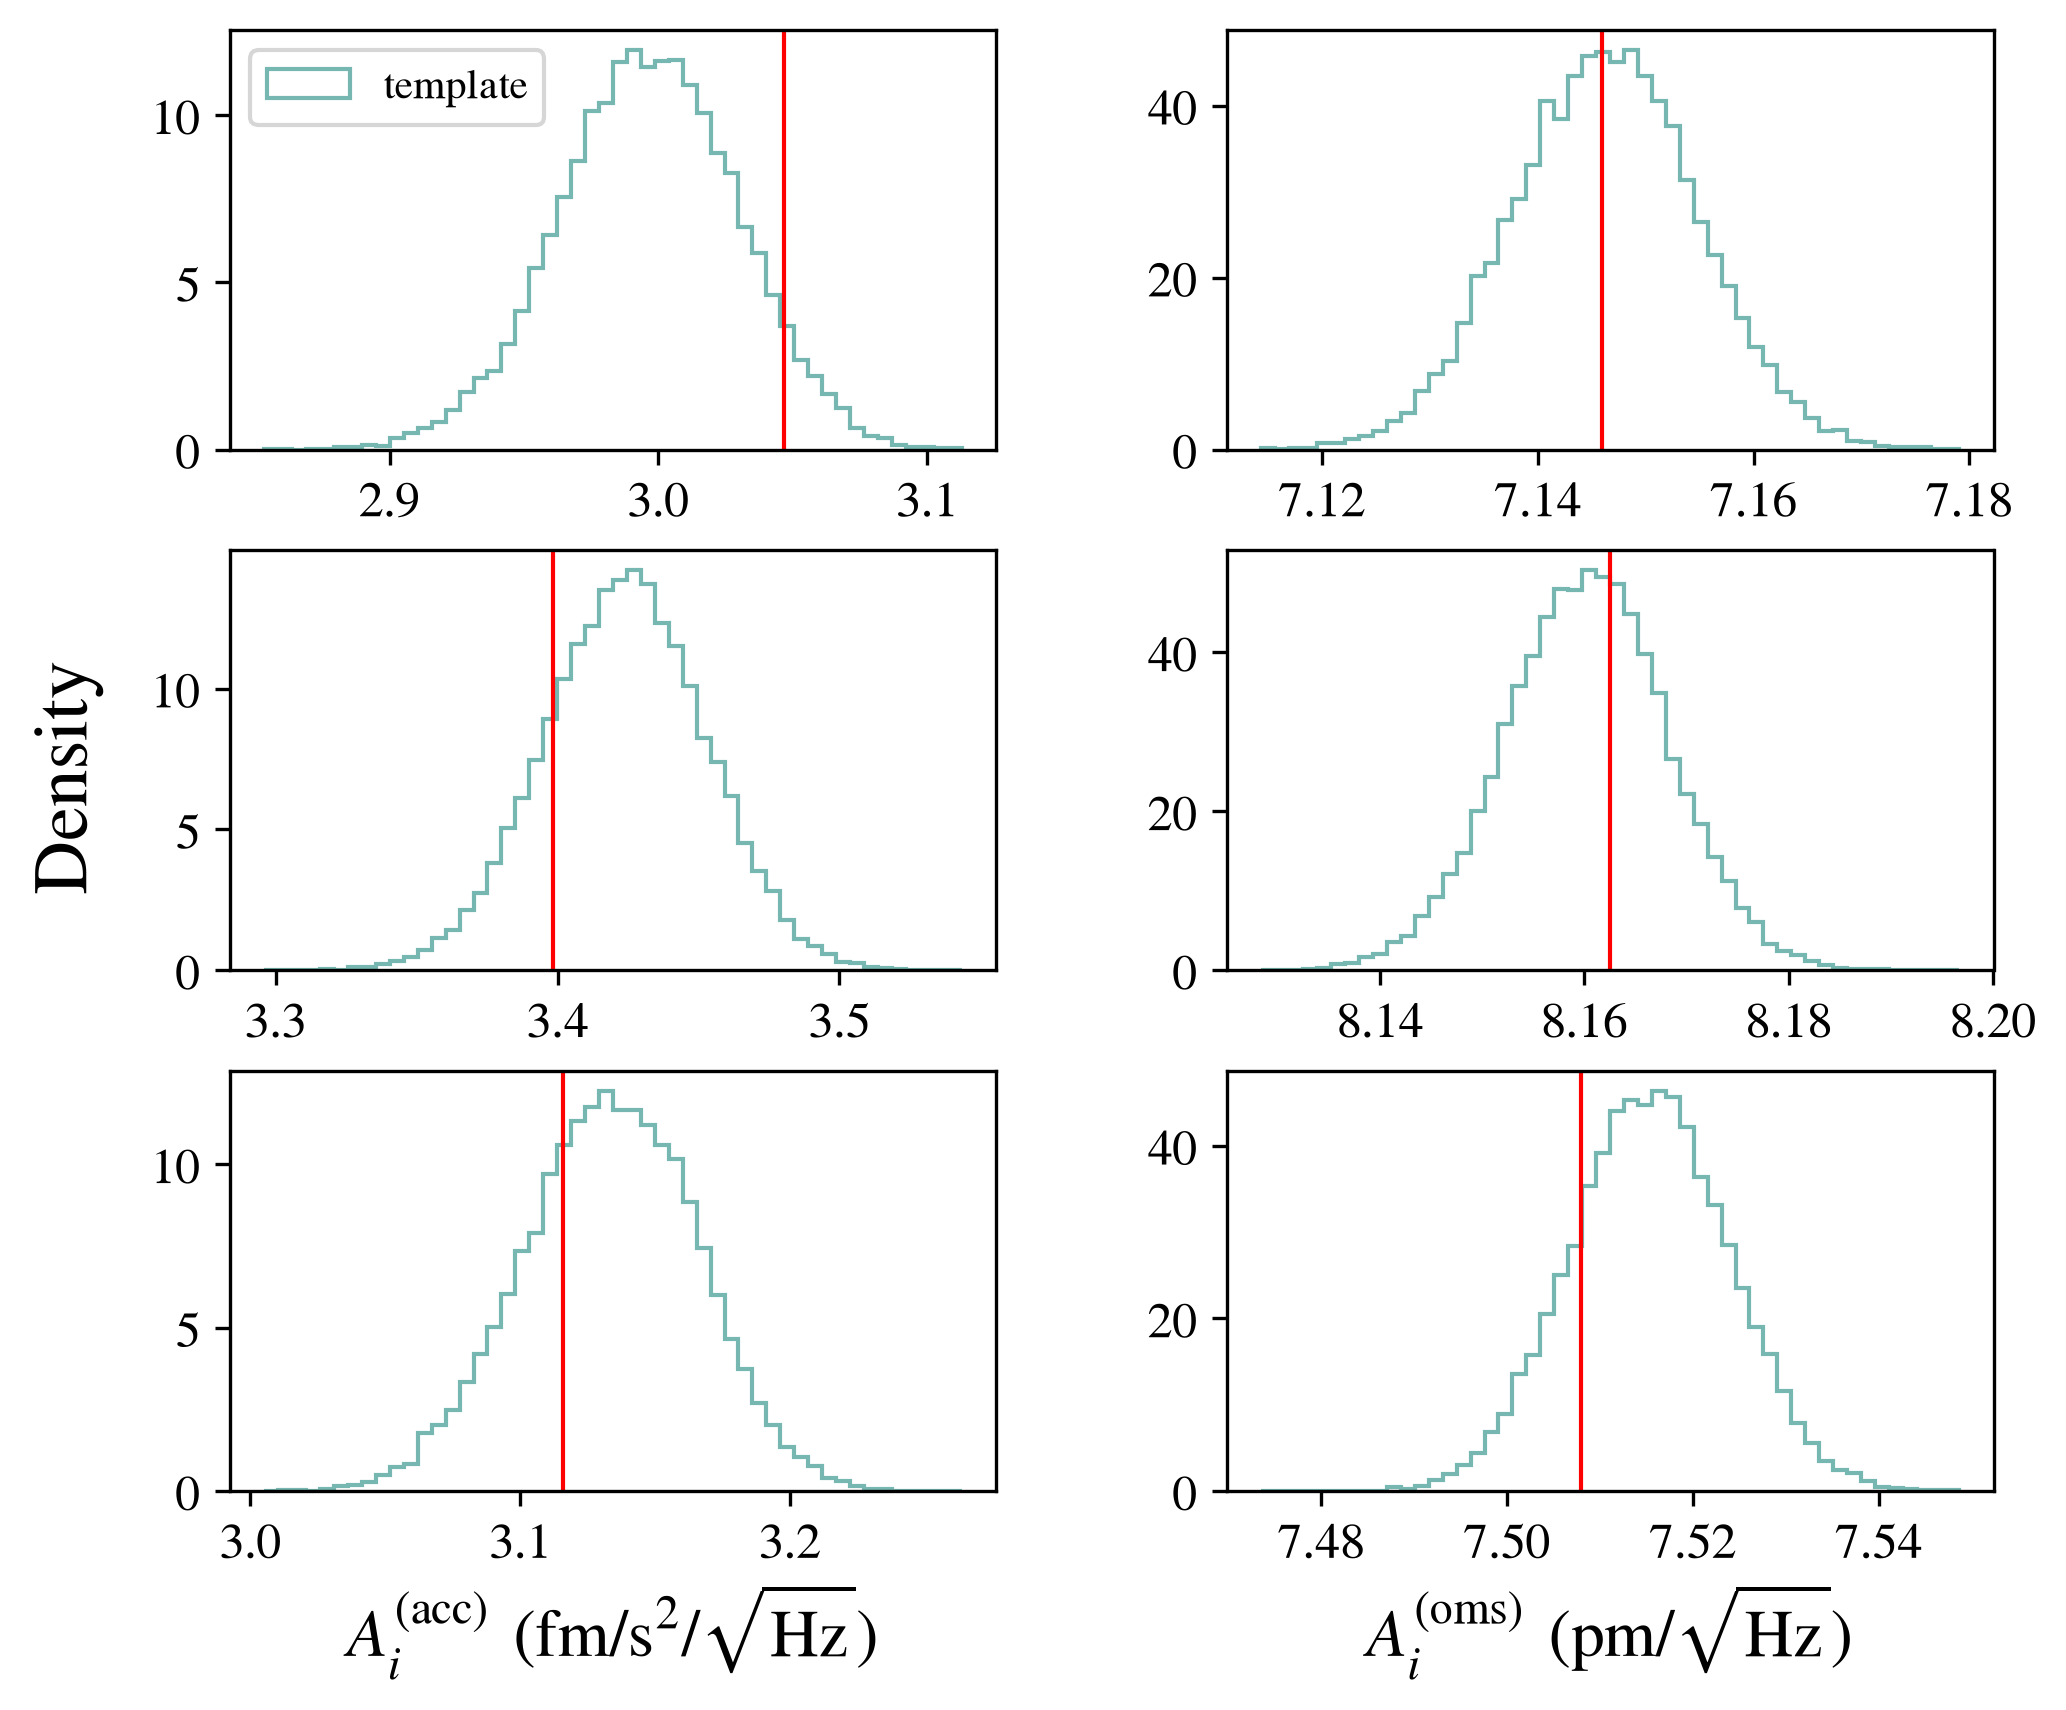
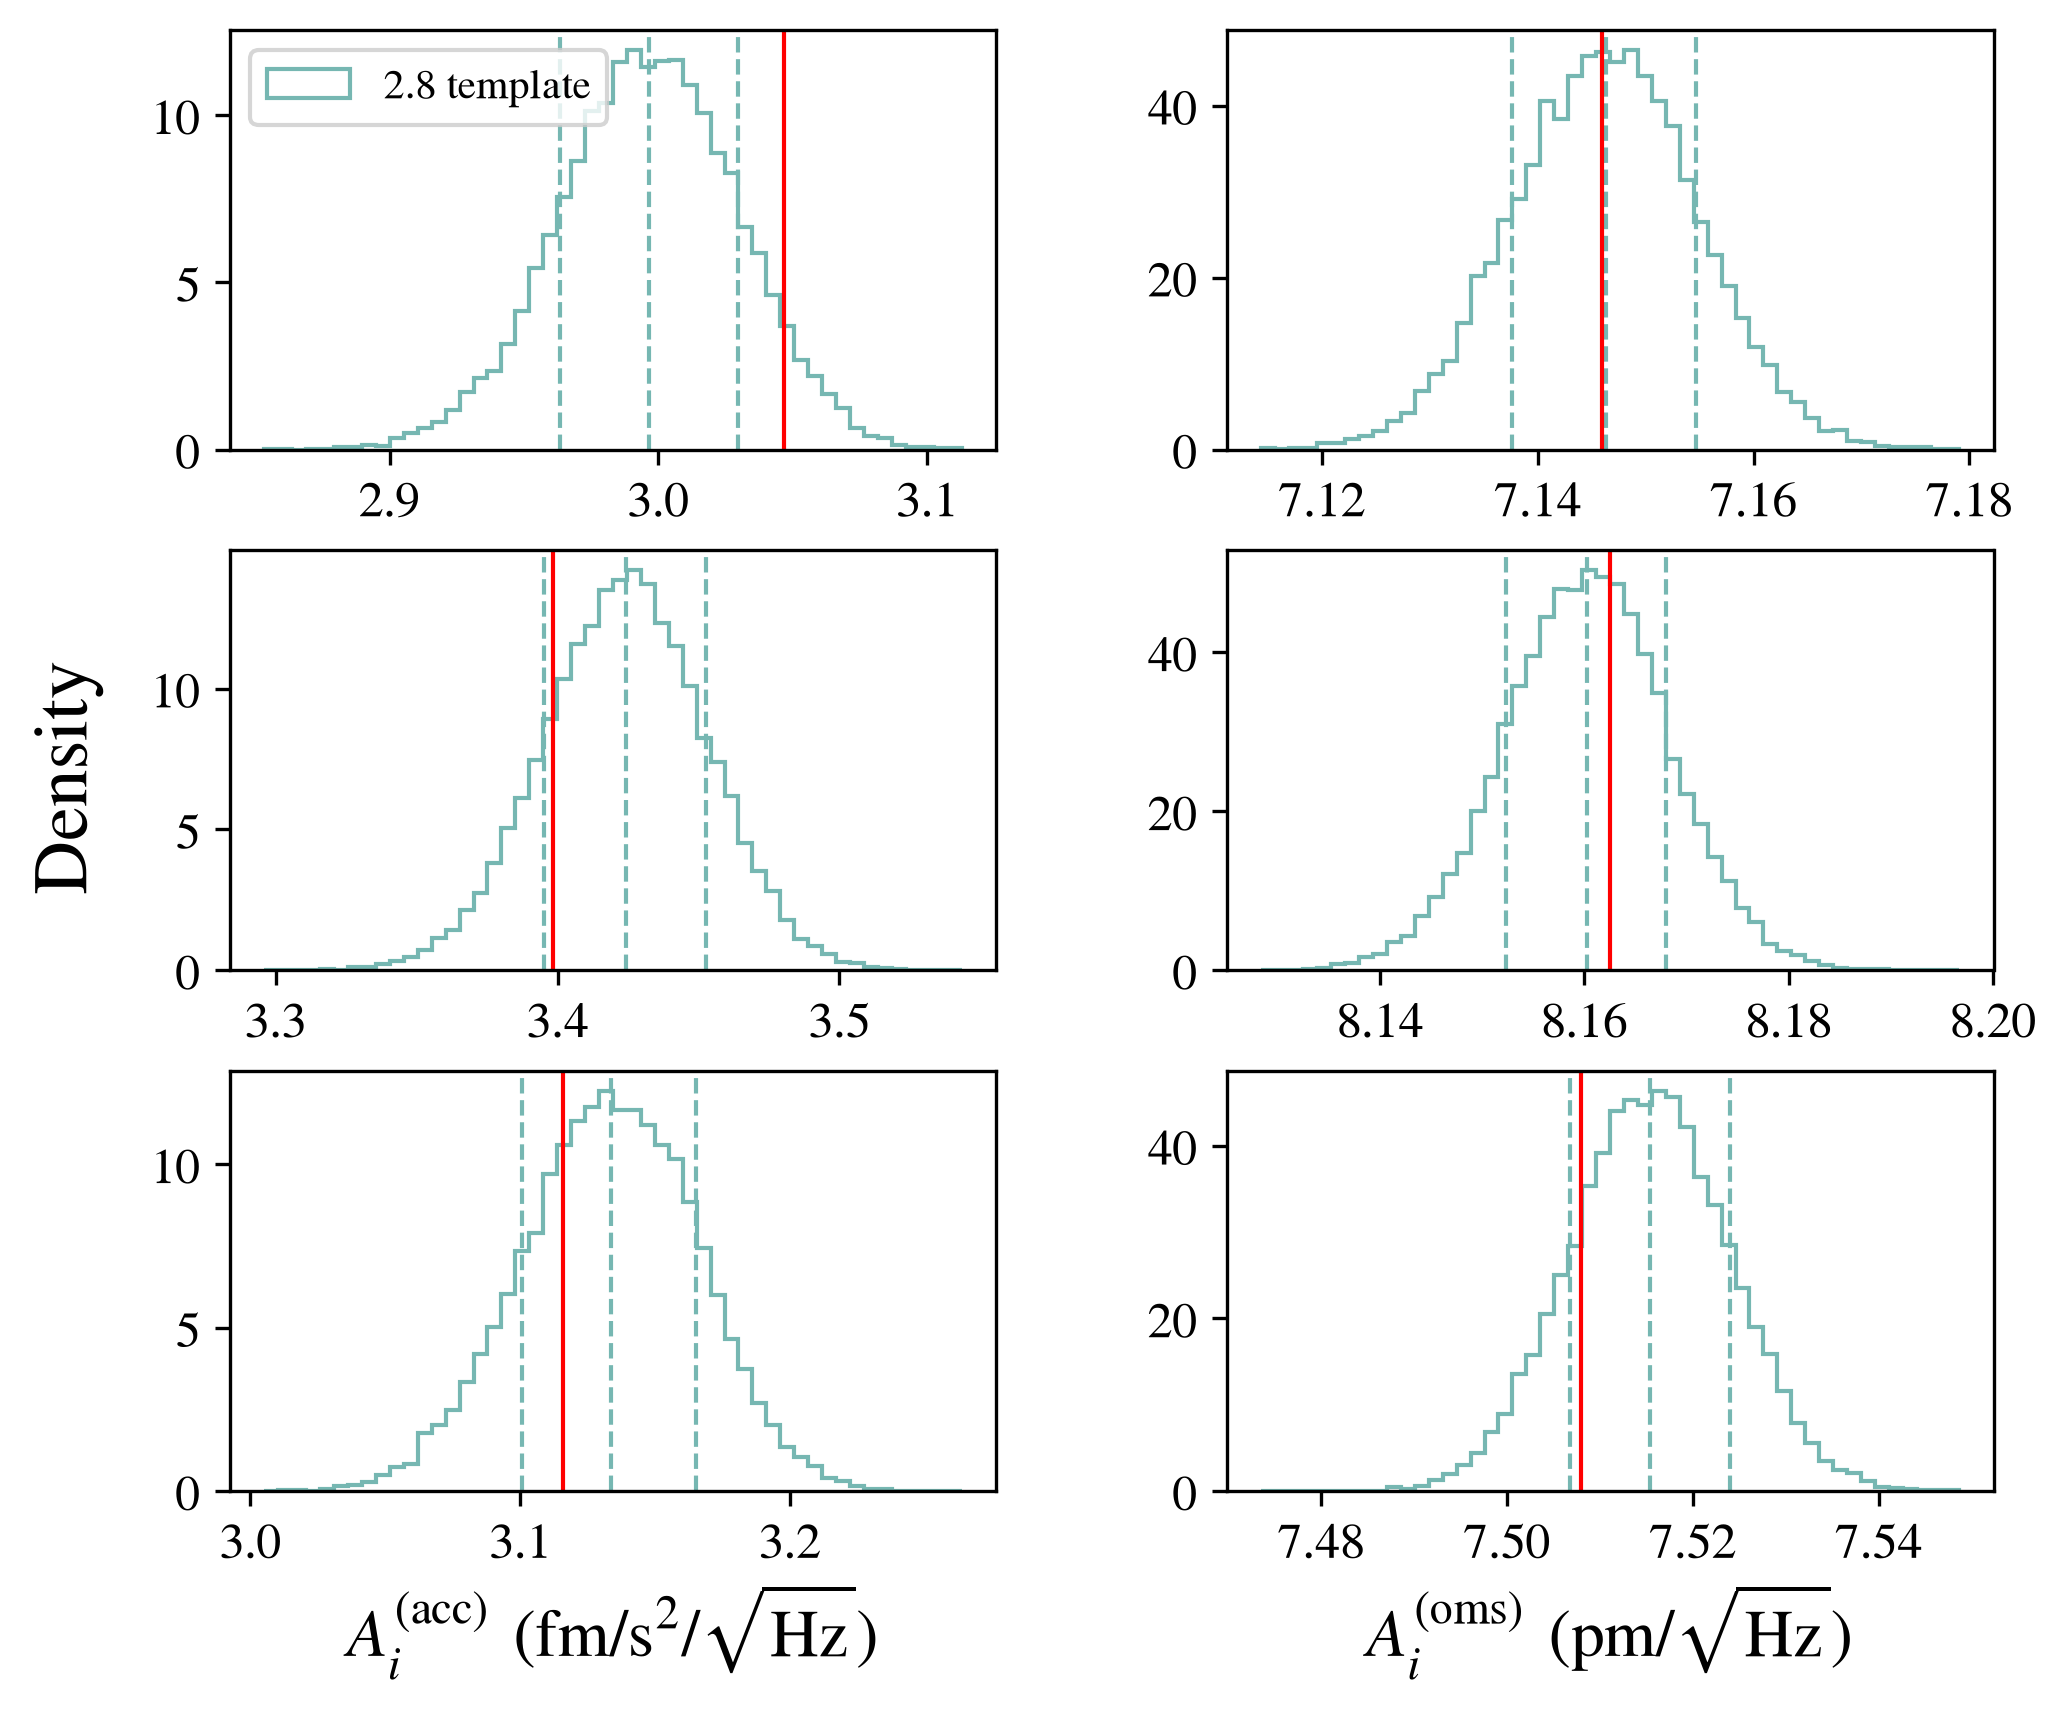
Restore noise quantile markers and clarify incomplete paper experiment comparisons

Changed region(s): [[0.1859, 0.031, 0.3098, 0.093]]

diff --git a/scripts/reproduction/analyze-taiji-sgwb-template-formal.py b/scripts/reproduction/analyze-taiji-sgwb-template-formal.py
@@ -78,7 +78,9 @@ def main():
     np.savez_compressed(OUT/'posterior-cold-chain.npz',cold_chain=cold,truth=injected,labels=np.array(labels),log_like_cold=b.get_log_like()[:,0,:],betas=b.get_betas())
     with plt.rc_context({'font.family':'serif','font.serif':['STIXGeneral','DejaVu Serif'],'mathtext.fontset':'stix','font.size':14,'axes.titlesize':11,'axes.labelsize':16,'legend.fontsize':12,'axes.grid':False,'axes.linewidth':.8,'lines.linewidth':1.0}):
         import corner
+        from matplotlib.lines import Line2D
         fig=corner.corner(flat[:,12:14],bins=50,smooth=.9,labels=[r'$A_{\mathrm{ap}}$',r'$\gamma_{\mathrm{ap}}$'],truths=injected[12:14],truth_color='red',color='#ff9da7',quantiles=[.16,.84],levels=[.68,.95],plot_datapoints=False,fill_contours=True,show_titles=False,max_n_ticks=4,hist_kwargs={'histtype':'step','linewidth':1})
+        fig.legend(handles=[Line2D([],[],color='#ff9da7',label='2.8 (template)'),Line2D([],[],color='red',label='injected')],loc='upper right',bbox_to_anchor=(.98,.97),frameon=False,fontsize=11)
         for ax in fig.axes:
             ax.tick_params(axis='both',labelsize=13)
             for tick in ax.get_xticklabels()+ax.get_yticklabels():tick.set_rotation(45)
@@ -94,7 +96,8 @@ def main():
                 values=(flat[:,offset+pair[0]]+flat[:,offset+pair[1]])/(2*unit)
                 true=(injected[offset+pair[0]]+injected[offset+pair[1]])/(2*unit)
                 q=np.quantile(values,[.025,.16,.5,.84,.975]);ax=axes[sc,col]
-                ax.hist(values,bins=50,density=True,histtype='step',color='#76b7b2',linewidth=1,label='template')
+                ax.hist(values,bins=50,density=True,histtype='step',color='#76b7b2',linewidth=1,label='2.8 template')
+                for value in q[1:4]:ax.axvline(value,color='#76b7b2',ls='--',lw=1)
                 ax.axvline(true,color='red',lw=1)
                 kind='ACC' if col==0 else 'OMS'
                 if sc==2:ax.set_xlabel(r'$A_i^{(\mathrm{acc})}\ (\mathrm{fm}/\mathrm{s}^2/\sqrt{\mathrm{Hz}})$' if col==0 else r'$A_i^{(\mathrm{oms})}\ (\mathrm{pm}/\sqrt{\mathrm{Hz}})$')
@@ -103,7 +106,7 @@ def main():
                 noise_rows.append({'parameter':f'{kind}_SC{sc+1}_average','links':[links[pair[0]],links[pair[1]]],'truth':float(true),'unit':'fm/s^2/sqrt(Hz)' if col==0 else 'pm/sqrt(Hz)','quantiles_025_16_50_84_975':q.tolist()})
         fig.text(.045,.55,'Density',rotation=90,va='center',fontsize=18)
         fig.savefig(OUT/'posterior-noise-spacecraft.png',dpi=300,bbox_inches='tight');plt.close(fig)
-        write_json(OUT/'posterior-noise-spacecraft.json',{'definition':'Arithmetic MOSA amplitude averages computed draw by draw, as in paper Section IV.','parameters':noise_rows})
+        write_json(OUT/'posterior-noise-spacecraft.json',{'definition':'Arithmetic MOSA amplitude averages computed draw by draw, as in paper Section IV.','dataset':'2.8 flexing-arm, not 2.8_EQ.','markers':'Cyan dashed lines: actual sampled 16th, 50th, 84th percentiles; red solid: injection. Figure 4 marker convention applied to the available 2.8 template samples, not a claim of reproducing the EQ experiment.','parameters':noise_rows})
         fig,axes=plt.subplots(7,2,figsize=(11,15),layout='constrained')
         for j,ax in enumerate(axes.flat):
             ax.plot(np.arange(1,351),cold[:,::4,j],alpha=.25,lw=.5);ax.axhline(injected[j],color='red',ls='--');ax.set(xlabel='Saved production step',ylabel=labels[j])

diff --git a/results/taiji-sgwb/template-formal/paper-figure-correspondence.md b/results/taiji-sgwb/template-formal/paper-figure-correspondence.md
@@ -1,0 +1,15 @@
+# Paper figure correspondence and detail review
+
+The reference screenshots are Figures 3, 4 and 6 of arXiv:2601.00169v2. Current formal inference is only the original 2.8 flexing-arm template experiment. A completed 350-ensemble chain for that experiment is not the complete collection of experiments in these paper figures.
+
+| Reference | What it contains | Present locally | Difference and action |
+| --- | --- | --- | --- |
+| Figure 3 | Blue 2.8_EQ and pink 2.8 template posteriors, red injection, 16/84% marginal markers, 68/95% joint contours | Pink 2.8 posterior and all of its stated markers/contours | Blue EQ posterior is a different dataset experiment, not a drawing option. Added an explicit 2.8 template legend. No EQ curve fabricated. |
+| Figure 4 | ACC/OMS spacecraft averages inferred from **2.8_EQ**, with cyan 16/50/84% dashed markers and red truth | Spacecraft averages from **2.8**, originally styled after Figure 8's template component | Missing quantile markers were a genuine available-data plotting omission relative to this screenshot. Added actual draw-derived 16/50/84% dashed lines. Data remain 2.8, not relabeled EQ. |
+| Figure 6 | Orange 2.8 template 95% spectrum band, pink 2.8 RJMCMC interpolation 95% band, red injection and relative-error panel | Orange template, red injection, 95% band and relative-error panel | Pink interpolation is a different posterior/model from rj_nofg_28t.py. It cannot be generated from the fixed power-law template chain. No RJ chain has completed. |
+
+Within each actually available result, the original sample quantiles, two joint contour levels, physical units, red truth lines, frequency scaling and fractional error are retained. Minor axis-range, binning, smoothing and typography differences can still arise because final publication plotting scripts are not all provided and samples differ. Styling agreement is not a claim of identical posterior numbers or verified convergence.
+
+To reproduce the reference panels in full requires three distinct analyses: (1) 2.8 template, now completed with convergence unconfirmed; (2) 2.8_EQ template, not yet executed; and (3) 2.8 RJMCMC interpolation, not yet executed. All three need their own data/model configuration, sampler diagnostics and traceable outputs. No extra long sampling was started during this review.
+
+Before-refinement plots are preserved under attempts/before-paper-detail-review/. Native HDF, final state and exported cold samples are unchanged, verified against paper-detail-review-input-hashes.json. The noise quantiles are saved numerically in posterior-noise-spacecraft.json. The archived original automatic-analysis error remains a separate earlier incident.

diff --git a/results/taiji-sgwb/template-formal/README.md b/results/taiji-sgwb/template-formal/README.md
@@ -29,7 +29,7 @@ Cold production acceptance is 0.2942. Only 2 of 14 parameters pass the predeclar
 ## Figures
 
 - [SGWB posterior](posterior-sgwb.png): paper Figure 3's 2.8 component, pink 68%/95% contours and red injection.
-- [Noise posteriors](posterior-noise-spacecraft.png): paper Figure 8's template component, draw-by-draw spacecraft averages in physical fm/pm units.
+- [Noise posteriors](posterior-noise-spacecraft.png): paper Figure 8's available 2.8 template component, draw-by-draw spacecraft averages in physical fm/pm units. Cyan 16/50/84% dashed markers are added using Figure 4's marker convention; this is not the EQ experiment.
 - [SGWB spectrum](posterior-spectrum.png): paper Figure 6's template component, 95% pointwise band and fractional error panel. Display is 1–40 mHz; full numerical range is retained in NPZ.
 - [SGWB production traces](production-traces.png).
 - [All 14 production traces](production-traces-all.png).
@@ -42,3 +42,7 @@ All six figures were generated from this run and visually inspected. No upstream
 The automatic analysis initially stopped at an external analyzer path typo, ROOT[...] instead of ROOT / ..., before plotting. Original failure log, pre-fix analyzer and status are retained under attempts/automatic-postprocessing-path-error/. Corrected postprocessing was rerun against the unchanged completed chain. SHA-256 comparisons confirm both live/exported HDF and final NPZ/JSON were not altered. This was not a sampling failure or MCMC rerun. The completed-state audit now requires analysis, status consistency, all six figures and published final-state hashes; an integrity-only audit cannot stand in for postprocessing completion.
 
 [Detailed method and history](../../../docs/reproduction/taiji-sgwb/template-formal.md).
+
+## Reference-figure detail review
+
+See [figure-by-figure correspondence](paper-figure-correspondence.md). Paper Figure 3 also contains 2.8_EQ posteriors; Figure 4 is specifically 2.8_EQ; Figure 6 also contains a separate RJMCMC interpolation result. Those experiments have not been executed. Available-data quantile markers were added without changing sample values. Full-paper figure reproduction remains incomplete.

diff --git a/docs/reproduction/taiji-sgwb/template-formal.md b/docs/reproduction/taiji-sgwb/template-formal.md
@@ -111,3 +111,8 @@ The new tracked launcher start-taiji-sgwb-background.command is opened with macO
 ## Completed schedule and postprocessing repair (2026-10-15)
 
 The original 5200 transitions completed at 06:13:36 Beijing time. HDF dimensions are acc/ro (350,6,62,1,6), sgwb (350,6,62,1,2); cold samples (350,62,14). The automatic external analyzer encountered a path-expression TypeError before rendering; the original error and source are archived. A path-only repair regenerated six figures, spectrum arrays, parameter tables and diagnostics without advancing MCMC or altering either HDF or final state (hash verified). All seven numerical checks pass; only two of fourteen conservative diagnostic flags pass, so the report explicitly retains CONVERGENCE_NOT_CONFIRMED. Final native-Terminal session runtime was 16.52 hours including supervision overhead; this excludes earlier interrupted attempts. No additional long-chain sampling was launched. See results/taiji-sgwb/template-formal/README.md and completion-summary.json for full scope, file inventory, and posterior summaries.
+
+
+## Figure 3/4/6 detail review
+
+The user supplied Figure 4 (2.8_EQ) rather than Figure 8 (2.8), which was the original noise plot reference. Actual 16/50/84% markers were added to the available 2.8 noise posterior, and the SGWB corner now explicitly labels 2.8 template. Figure 3 blue EQ and Figure 6 pink RJMCMC bands are unexecuted experiments, not missing plotting layers that can be recovered from the current power-law posterior. See results/taiji-sgwb/template-formal/paper-figure-correspondence.md for the exact mapping and unaltered sampling-artifact hashes.
